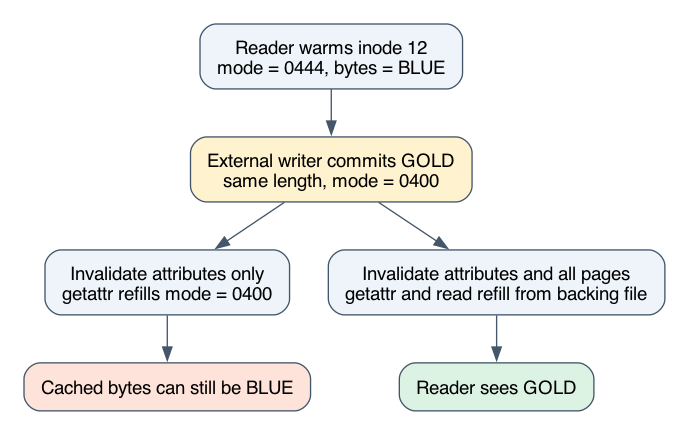
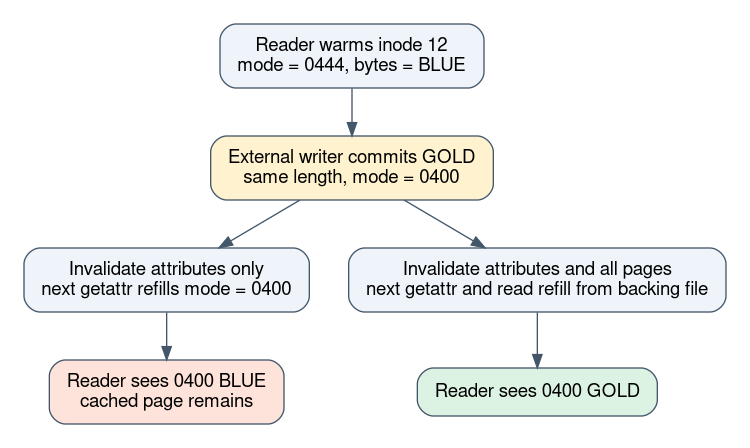
fix(114): expire a stale cached mode in the mounted attribute step
The mounted control observed 0400 before any notification on every run.
palette.c mounted without ro, so the warm-up FUSE_READ marked atime stale
(fuse_invalidate_atime runs when the inode is writable) and the next fstat
sent FUSE_GETATTR inside the one-hour timeout. The attribute-only step then
started from 0400 and passed without the notification: a daemon whose `a`
command returned 0 and sent nothing passed mounted.py.

palette.c now mounts with -oro. mounted.py requires 0444 BLUE before the
notification, 0400 BLUE after `a` and 0400 GOLD after `p`, and reads the
backing-file oracle before each mounted observation. The strict control
fails on the previous daemon with (0o400, BLUE) and the no-op `a` daemon
fails with (0o444, BLUE) against (0o400, BLUE).

Remedy decision: Full tier, four valid verdicts of five judges (one judge
failed on the host). All four chose the read-only mount over a read-then-
stat order, a third mode, and a text-only correction. The text-only option
failed on the no-op `a` counterexample. Ruling: the held descriptor reports
the cached 0444 until a notification; the earlier either-mode control is
replaced.

Also:
- palette.c prints "mounted" before it starts the control thread. Pinned
  to one CPU with a command queued on stdin, 2 of 200 starts printed the
  reply first; 300 of 300 print "mounted" first now.
- palette.c opens the backing file with O_CLOEXEC.
- mounted.py refuses optimized Python at import, as topic 111 does.
[…]

Changed region(s): [[0.0305, 0.0598, 0.9753, 0.9563], [0.3048, 0.0299, 0.6401, 0.0598]]

diff --git a/topics/114-fuse-invalidation/mounted.py b/topics/114-fuse-invalidation/mounted.py
@@ -7,6 +7,9 @@ import subprocess
 import sys
 import tempfile
 
+if sys.flags.optimize:
+    raise SystemExit("this test uses assert: run without python -O or PYTHONOPTIMIZE")
+
 
 def reply(server):
     if not select.select([server.stdout], [], [], 10)[0]:
@@ -34,20 +37,15 @@ def experiment(binary, directory):
                 assert observe(fd) == observe(writer.fileno()) == (0o444, b"BLUE")
                 os.pwrite(writer.fileno(), b"GOLD", 0)
                 os.fchmod(writer.fileno(), 0o400)
-                oracle = observe(writer.fileno())
-                assert oracle == (0o400, b"GOLD")
-                for command, expected in [(None, None),
-                                          (b"a", (0o400, b"BLUE")), (b"p", oracle)]:
+                for command, expected in [(None, (0o444, b"BLUE")),
+                                          (b"a", (0o400, b"BLUE")), (b"p", (0o400, b"GOLD"))]:
                     if command:
                         server.stdin.write(command)
                         assert reply(server) == b"0"
+                    assert observe(writer.fileno()) == (0o400, b"GOLD")
                     actual = observe(fd)
                     print(command or b"none", format(actual[0], "04o"), actual[1])
-                    if command is None:
-                        # The kernel may already have refreshed mode on this descriptor.
-                        assert actual[0] in (0o444, 0o400) and actual[1] == b"BLUE"
-                    else:
-                        assert actual == expected, (actual, expected)
+                    assert actual == expected, (actual, expected)
         finally:
             server.stdin.close()
             if os.path.ismount(mountpoint):
@@ -56,7 +54,5 @@ def experiment(binary, directory):
 
 
 if __name__ == "__main__":
-    if not __debug__:
-        raise RuntimeError("Run this test with Python assertions enabled")
     with tempfile.TemporaryDirectory() as tmp:
         experiment(Path(sys.argv[1]).resolve(), Path(tmp))

diff --git a/topics/114-fuse-invalidation/palette.c b/topics/114-fuse-invalidation/palette.c
@@ -104,22 +104,23 @@ int main(int argc, char **argv)
         fprintf(stderr, "usage: palette BACKING MOUNTPOINT\n");
         return 2;
     }
-    backing_fd = open(argv[1], O_RDONLY);
+    backing_fd = open(argv[1], O_RDONLY | O_CLOEXEC);
     if (backing_fd < 0) {
         perror("open backing");
         return 1;
     }
-    struct fuse_args args = FUSE_ARGS_INIT(1, argv);
+    char *fuse_argv[] = {argv[0], "-oro", NULL};
+    struct fuse_args args = FUSE_ARGS_INIT(2, fuse_argv);
     struct fuse_lowlevel_ops ops = {.init = init, .lookup = lookup, .getattr = getattr_cb,
                                     .open = open_cb, .read = read_cb};
     struct fuse_session *se = fuse_session_new(&args, &ops, sizeof ops, NULL);
     if (!se || fuse_session_mount(se, argv[2]) != 0)
         return 1;
+    puts("mounted"); /* The driver reads this line before it sends a command. */
+    fflush(stdout);
     pthread_t worker;
     int result = pthread_create(&worker, NULL, control, se);
     if (result == 0) {
-        puts("mounted");
-        fflush(stdout);
         result = fuse_session_loop(se);
         pthread_join(worker, NULL); /* The driver closes stdin before unmount. */
     }

diff --git a/topics/114-fuse-invalidation/src/lib.rs b/topics/114-fuse-invalidation/src/lib.rs
@@ -1,4 +1,7 @@
-//! Cached answers for a single open file on a read-only mount.
+//! Model the attributes and one data page that Linux caches for a held FUSE descriptor.
+//!
+//! A cached answer changes only through [`Cache::invalidate`]. Reads between
+//! notifications return cached values even after the backing file changes.
 //!
 //! ```
 //! use topic114_fuse_invalidation::{Cache, File};
@@ -6,8 +9,9 @@
 //! let old = File { mode: 0o444, bytes: *b"BLUE" };
 //! let new = File { mode: 0o400, bytes: *b"GOLD" };
 //! assert_eq!(cache.read(old), old);
+//! assert_eq!(cache.read(new), old);
 //! cache.invalidate(false);
-//! assert_eq!(cache.read(new).bytes, old.bytes);
+//! assert_eq!(cache.read(new), File { mode: new.mode, bytes: old.bytes });
 //! cache.invalidate(true);
 //! assert_eq!(cache.read(new), new);
 //! ```
@@ -15,7 +19,7 @@
 /// Two independently cached answers for a four-byte file.
 #[derive(Clone, Copy, Debug, PartialEq, Eq)]
 pub struct File {
-    /// Permission bits.
+    /// Permission bits, the value of `st_mode & 0o7777`.
     pub mode: u16,
     /// File contents.
     pub bytes: [u8; 4],

diff --git a/topics/114-fuse-invalidation/README.md b/topics/114-fuse-invalidation/README.md
@@ -28,6 +28,9 @@ both changes are visible in the backing store.
 | Clean file data | Inode and page offset | Evict the page covering bytes 0 through 3. |
 
 With a warm page, an attribute-only notification can produce `0400 BLUE`.
+That result requires `FUSE_CAP_AUTO_INVAL_DATA` to be off. libfuse enables it
+by default, and the kernel then discards cached pages when a refreshed mtime
+differs.
 Calling `fuse_lowlevel_notify_inval_inode(se, 12, 0, 0)` expires attributes
 and invalidates data from offset zero to the end. After the daemon returns
 success, the reader can obtain `0400 GOLD`. A negative offset selects
@@ -37,14 +40,18 @@ changed. Whole-inode invalidation costs more refills on a large hot file.
 If an external writer replaces the name with a different inode, invalidate
 the entry by parent and name. A fresh lookup can find the replacement while
 an open descriptor continues to identify the old inode. Also invalidate cached
-absence on external creation. Send entry notifications outside related request
-callbacks and locks those operations may need.
+absence on external creation. Send notifications outside related request
+callbacks and locks those operations may need. A data invalidation waits for
+a read in flight on the same pages, so sending it from that read's callback
+deadlocks.
 
 ## Choose the read contract
 
 Long-lived caches suit repeated reads when every mount receives changes.
 Make the committed version readable, order old in-flight replies against the
-change, then invalidate and check the result. Acknowledge strict visibility
+change, then invalidate and check the result. A mount that holds no cached
+state for the inode returns `-ENOENT`, which also satisfies the check.
+Acknowledge strict visibility
 once all participating mounts satisfy that contract. If a mount loses its
 event stream, reconcile from a known version or suspend freshness-dependent
 reads. An asynchronous event leaves an interval between commit and delivery.
@@ -73,7 +80,8 @@ cargo test -p topic114-fuse-invalidation
 ```
 
 Expect `0400 BLUE` then `0400 GOLD` from the model. The Rust unit test checks
-256 successive full invalidations. The doctest covers the stale-page control.
+256 successive full invalidations. The doctest follows one descriptor through
+the cached answer, attribute invalidation and full invalidation.
 
 On Linux with libfuse3 development headers, fusermount3 and permission to
 mount a private FUSE filesystem, run:
@@ -85,9 +93,12 @@ python3 mounted.py /tmp/topic114-palette
 
 The driver creates a private directory and uses one descriptor per side. It
 warms the mounted descriptor and changes the backing file through the other.
-A direct fstat/pread pair supplies the oracle. Expect cached `BLUE` with either mode before a
-notification, `0400 BLUE` after attribute invalidation and `0400 GOLD` after
-full invalidation. The daemon disables automatic mtime-based page invalidation
+A direct fstat/pread pair supplies the oracle before each mounted observation.
+Expect `0444 BLUE` before a notification, `0400 BLUE` after attribute
+invalidation and `0400 GOLD` after full invalidation. The daemon mounts
+read-only. On a writable mount a completed `FUSE_READ` marks atime stale, and
+the next fstat asks the daemon for attributes inside the timeout. The daemon
+disables automatic mtime-based page invalidation
 and writeback, uses one-hour metadata and entry timeouts, and serves reads
 on a single four-byte file. Readers are quiescent during the update.
 [Measured results](RESULTS.md).
